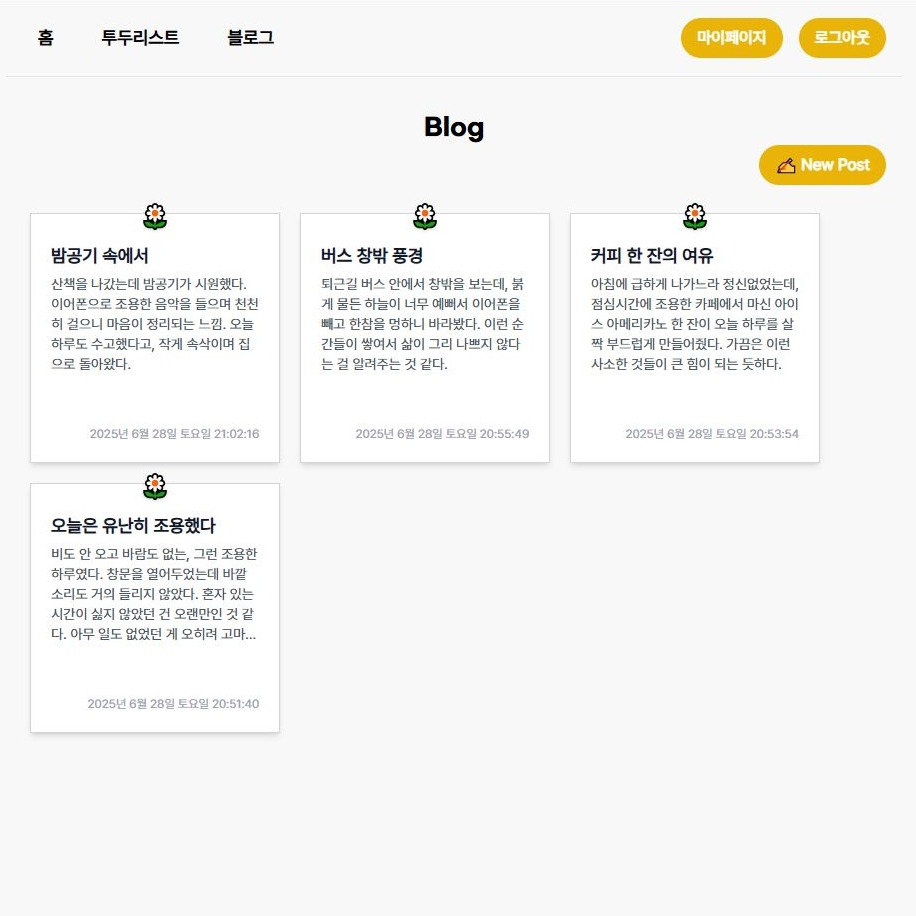
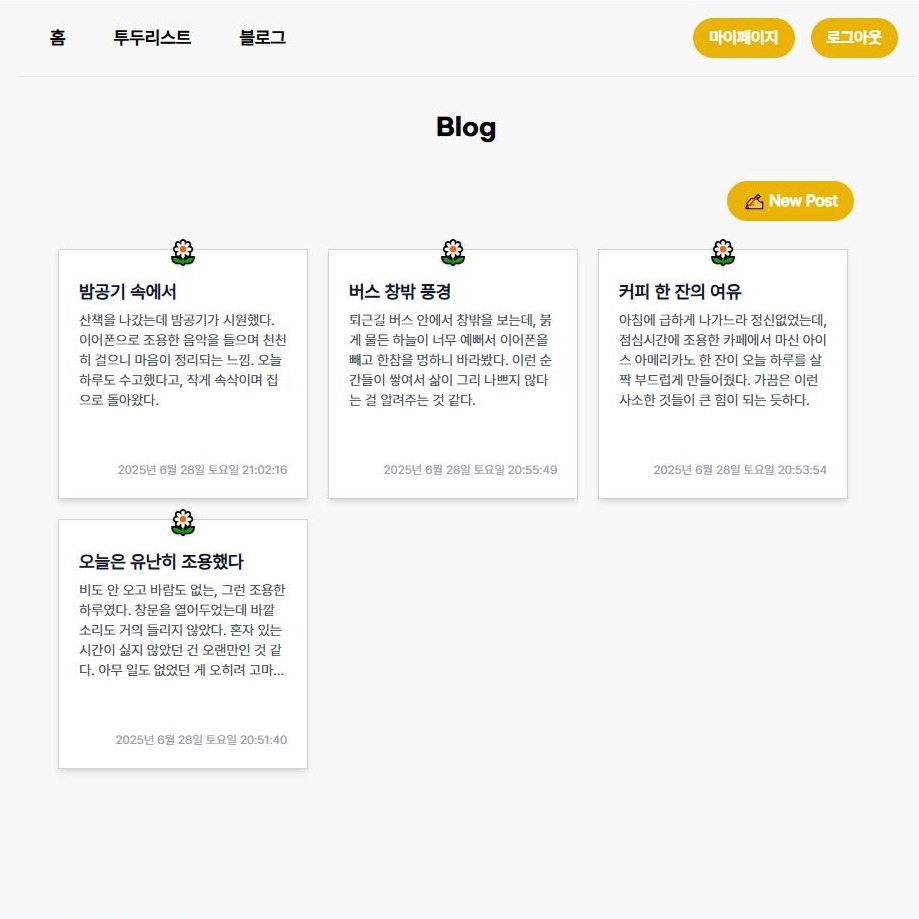
chore: metadata 변경

diff --git a/src/components/home/HomeSection.tsx b/src/components/home/HomeSection.tsx
@@ -40,7 +40,7 @@ const HomeSection = () => {
             <motion.div
               initial={{ opacity: 0, scale: 0.8 }}
               animate={{ opacity: 1, scale: 1 }}
-              transition={{ duration: 1.0, delay: 0.5, ease: 'easeOut' }}
+              transition={{ duration: 0.8, delay: 0.5, ease: 'easeOut' }}
             >
               <Link href="/todolist" className="common-btn !py-3">
                 To Do List
@@ -49,7 +49,7 @@ const HomeSection = () => {
             <motion.div
               initial={{ opacity: 0, scale: 0.8 }}
               animate={{ opacity: 1, scale: 1 }}
-              transition={{ duration: 1.0, delay: 0.7, ease: 'easeOut' }}
+              transition={{ duration: 0.8, delay: 0.7, ease: 'easeOut' }}
             >
               <Link href="/blog" className="common-btn !px-9 !py-3">
                 Blog
@@ -61,7 +61,7 @@ const HomeSection = () => {
             <motion.div
               initial={{ opacity: 0, scale: 0.8 }}
               animate={{ opacity: 1, scale: 1 }}
-              transition={{ duration: 1.0, delay: 0.5, ease: 'easeOut' }}
+              transition={{ duration: 0.8, delay: 0.5, ease: 'easeOut' }}
             >
               <Link href="/sign-in" className="common-btn !px-9 !py-3">
                 로그인

diff --git a/src/app/blog/_components/PostList.tsx b/src/app/blog/_components/PostList.tsx
@@ -36,8 +36,8 @@ const PostList = () => {
   };
 
   return (
-    <section className="flex flex-col">
-      <div className="mb-5 ml-auto">
+    <section className="flex flex-col p-4">
+      <div className="mt-5 mb-5 ml-auto mr-7">
         <button
           id="new-post-button"
           type="button"

diff --git a/src/app/layout.tsx b/src/app/layout.tsx
@@ -8,7 +8,7 @@ import Layout from '@/components/layout/Layout';
 import Provider from '@/providers/Provider';
 
 export const metadata: Metadata = {
-  title: 'To Do List',
+  title: 'Daily Space',
   description: '개인 프로젝트',
 };
 
